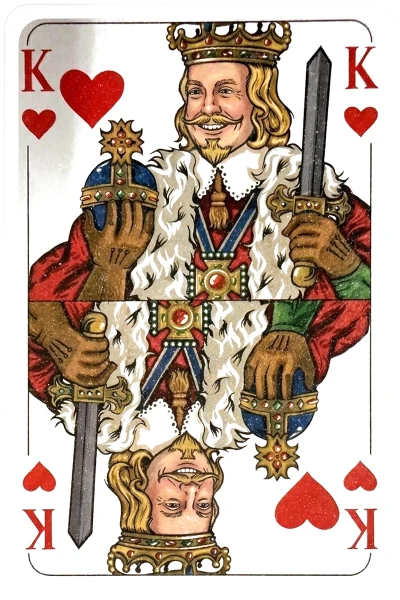
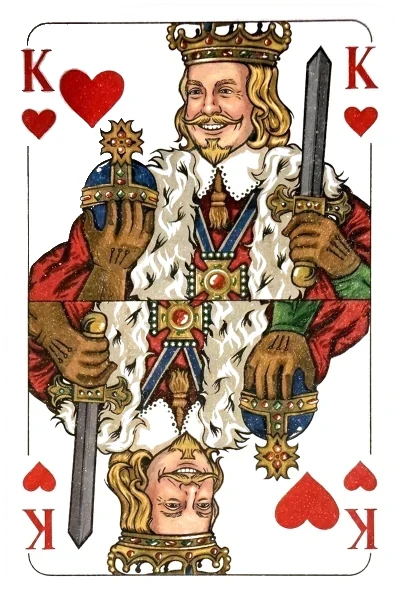
v372: Herz-Koenig Bild: dunklen Fleck oben links entfernt
Claude-Session: https://claude.ai/code/session_01Bq3j1UmgmmQRjdUKFtX7an

Changed region(s): [[0.03, 0.03, 0.24, 0.3], [0.24, 0.27, 0.27, 0.3], [0.06, 0.42, 0.09, 0.45]]

diff --git a/sw.js b/sw.js
@@ -4,7 +4,7 @@
 // Nur dann wirft der Browser den alten Zwischenspeicher weg und alle Spieler
 // bekommen zuverlässig die neue Version. Das ist der einzige Handgriff, den man
 // nach dem Bearbeiten von Dateien nicht vergessen darf.
-const CACHE_NAME = "trollhouse-v371";
+const CACHE_NAME = "trollhouse-v372";
 
 const DATEIEN = [
   "./",
@@ -74,18 +74,18 @@ const DATEIEN = [
   "bilder/fussball-auktion/spieler-it-5.png?v=335",
   "bilder/fussball-auktion/spieler-de-1.png?v=335",
   "bilder/doppelkopf-dame.webp",
-  "bilder/doppelkopf/kreuz-9.webp?v=371",
-  "bilder/doppelkopf/kreuz-10.webp?v=371",
-  "bilder/doppelkopf/kreuz-bube.webp?v=371",
-  "bilder/doppelkopf/kreuz-dame.webp?v=371",
-  "bilder/doppelkopf/kreuz-koenig.webp?v=371",
-  "bilder/doppelkopf/kreuz-ass.webp?v=371",
-  "bilder/doppelkopf/herz-9.webp?v=371",
-  "bilder/doppelkopf/herz-10.webp?v=371",
-  "bilder/doppelkopf/herz-bube.webp?v=371",
-  "bilder/doppelkopf/herz-dame.webp?v=371",
-  "bilder/doppelkopf/herz-koenig.webp?v=371",
-  "bilder/doppelkopf/herz-ass.webp?v=371",
+  "bilder/doppelkopf/kreuz-9.webp?v=372",
+  "bilder/doppelkopf/kreuz-10.webp?v=372",
+  "bilder/doppelkopf/kreuz-bube.webp?v=372",
+  "bilder/doppelkopf/kreuz-dame.webp?v=372",
+  "bilder/doppelkopf/kreuz-koenig.webp?v=372",
+  "bilder/doppelkopf/kreuz-ass.webp?v=372",
+  "bilder/doppelkopf/herz-9.webp?v=372",
+  "bilder/doppelkopf/herz-10.webp?v=372",
+  "bilder/doppelkopf/herz-bube.webp?v=372",
+  "bilder/doppelkopf/herz-dame.webp?v=372",
+  "bilder/doppelkopf/herz-koenig.webp?v=372",
+  "bilder/doppelkopf/herz-ass.webp?v=372",
   "bilder/tetris-stein.webp",
   "bilder/knobeln-streichhoelzer.webp",
   "bilder/merks-dir-karten.webp",

diff --git a/spiele/doppelkopf/karten.js b/spiele/doppelkopf/karten.js
@@ -168,7 +168,7 @@ export function kartenSvg(id) {
   if (cache.has(id)) return cache.get(id);
   const bild = BILD_KARTEN[farbe + rang];
   if (bild) {
-    const html = `<img class="dk-karte-svg dk-karte-bild" src="bilder/doppelkopf/${bild}.webp?v=371" alt="${farbe}${rang}" draggable="false">`;
+    const html = `<img class="dk-karte-svg dk-karte-bild" src="bilder/doppelkopf/${bild}.webp?v=372" alt="${farbe}${rang}" draggable="false">`;
     cache.set(id, html);
     return html;
   }

diff --git a/app.js b/app.js
@@ -15,7 +15,7 @@ import {
 // Spiel-Fixes (spiele/<id>/spiel.js) verzoegert oder gar nicht mit.
 import { SPIELE, spielInfo } from "./spiele/register.js?v=335";
 
-export const APP_VERSION = "v371";
+export const APP_VERSION = "v372";
 const appVersion = document.getElementById("app-version");
 appVersion.textContent = "Version " + APP_VERSION;
 

diff --git a/spiele/register.js b/spiele/register.js
@@ -18,7 +18,7 @@
 // in der Olympiade trotz Fix in v201/v202 teils noch bestehen lassen.
 // WICHTIG: bei jedem Versionssprung hier UND in app.js (Import von
 // register.js) mit hochzaehlen.
-const SPIEL_VERSION = "371";
+const SPIEL_VERSION = "372";
 
 export const SPIELE = [
   {
